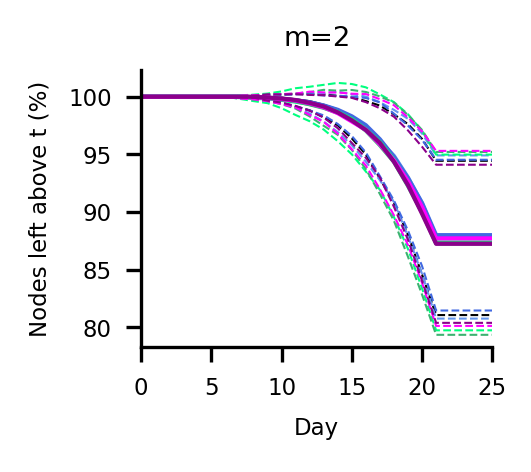
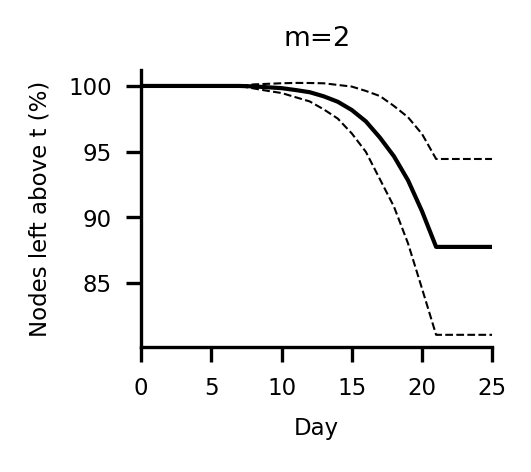
different plots for no reduction

diff --git a/analysis/New_York/vis.py b/analysis/New_York/vis.py
@@ -214,25 +214,37 @@ def plot_cases(all_results, age_groups, num_days, n, colors, labels, outdir):
 
 
         #Total
-        fig, ax = plt.subplots(figsize=(4.5/2.54, 4/2.54))
+        fig1, ax1 = plt.subplots(figsize=(4.5/2.54, 4/2.54))
+        fig2, ax2 = plt.subplots(figsize=(4.5/2.54, 4/2.54))
         ti=0
         for c in colors:
             m_cases_av = 100*np.cumsum(np.average(total[ti,:,:],axis=0))/n
             m_cases_std = 100*np.cumsum(np.std(total[ti,:,:],axis=0))/n
-            #plot
-            ax.plot(np.arange(total.shape[2]), m_cases_av, color = colors[c], linewidth=1)
-            ax.plot(np.arange(total.shape[2]),m_cases_av-m_cases_std,color = colors[c],linewidth=0.5, linestyle='dashed')
-            ax.plot(np.arange(total.shape[2]),m_cases_av+m_cases_std,color = colors[c],linewidth=0.5, linestyle='dashed')
+            if c != '1_1_1_1':
+                #plot
+                ax1.plot(np.arange(total.shape[2]), m_cases_av, color = colors[c], linewidth=1)
+                ax1.plot(np.arange(total.shape[2]),m_cases_av-m_cases_std,color = colors[c],linewidth=0.5, linestyle='dashed')
+                ax1.plot(np.arange(total.shape[2]),m_cases_av+m_cases_std,color = colors[c],linewidth=0.5, linestyle='dashed')
+            else:
+                ax2.plot(np.arange(total.shape[2]), m_cases_av, color = colors[c], linewidth=1)
+                ax2.plot(np.arange(total.shape[2]),m_cases_av-m_cases_std,color = colors[c],linewidth=0.5, linestyle='dashed')
+                ax2.plot(np.arange(total.shape[2]),m_cases_av+m_cases_std,color = colors[c],linewidth=0.5, linestyle='dashed')
             ti+=1
-        #plt.xlim([0,30])
-        ax.set_title('m='+str(m))
-        #ax.set_ylim(yscale[m])
-        ax.spines['top'].set_visible(False)
-        ax.spines['right'].set_visible(False)
-        ax.set_xlabel('Day')
-        ax.set_ylabel('% Cases')
-        fig.tight_layout()
-        fig.savefig(outdir+'cases_'+str(m)+'_total.png', format='png', dpi=300)
+        ax1.set_title('m='+str(m))
+        ax1.spines['top'].set_visible(False)
+        ax1.spines['right'].set_visible(False)
+        ax1.set_xlabel('Day')
+        ax1.set_ylabel('% Cases')
+        fig1.tight_layout()
+        fig1.savefig(outdir+'cases_'+str(m)+'_total.png', format='png', dpi=300)
+
+        ax2.set_title('m='+str(m))
+        ax2.spines['top'].set_visible(False)
+        ax2.spines['right'].set_visible(False)
+        ax2.set_xlabel('Day')
+        ax2.set_ylabel('% Cases')
+        fig2.tight_layout()
+        fig2.savefig(outdir+'cases_'+str(m)+'_total_100.png', format='png', dpi=300)
         plt.close()
 
     return None
@@ -282,7 +294,9 @@ def plot_degrees(all_results, age_groups, num_days, n, colors, labels, outdir):
     for m in ms:
         m_results = all_results[all_results['m']==m]
         #Total
-        fig, ax = plt.subplots(figsize=(4.5/2.54, 4/2.54))
+
+        fig1, ax1 = plt.subplots(figsize=(4.5/2.54, 4/2.54))
+        fig2, ax2 = plt.subplots(figsize=(4.5/2.54, 4/2.54))
         combo=1
         fetched_y = []
         for c in colors:
@@ -294,17 +308,31 @@ def plot_degrees(all_results, age_groups, num_days, n, colors, labels, outdir):
             #Average over seeds
             degrees_av = 100*np.average(degrees,axis=0)
             degrees_std = 100*np.std(degrees,axis=0)
-            ax.plot(np.arange(len(degrees_av)),degrees_av, color = colors[c], linewidth=1)
-            ax.plot(np.arange(len(degrees_av)),degrees_av-degrees_std, color = colors[c],linewidth=0.5, linestyle='dashed')
-            ax.plot(np.arange(len(degrees_av)),degrees_av+degrees_std, color = colors[c],linewidth=0.5, linestyle='dashed')
-        ax.set_xlim([0,25])
-        ax.set_title('m='+str(m))
-        ax.spines['top'].set_visible(False)
-        ax.spines['right'].set_visible(False)
-        ax.set_xlabel('Day')
-        ax.set_ylabel('Nodes left above t (%)')
-        fig.tight_layout()
-        fig.savefig(outdir+'deg_'+str(m)+'_total.png', format='png', dpi=300)
+            if c != '1_1_1_1':
+                ax1.plot(np.arange(len(degrees_av)),degrees_av, color = colors[c], linewidth=1)
+                ax1.plot(np.arange(len(degrees_av)),degrees_av-degrees_std, color = colors[c],linewidth=0.5, linestyle='dashed')
+                ax1.plot(np.arange(len(degrees_av)),degrees_av+degrees_std, color = colors[c],linewidth=0.5, linestyle='dashed')
+            else:
+                ax2.plot(np.arange(len(degrees_av)),degrees_av, color = colors[c], linewidth=1)
+                ax2.plot(np.arange(len(degrees_av)),degrees_av-degrees_std, color = colors[c],linewidth=0.5, linestyle='dashed')
+                ax2.plot(np.arange(len(degrees_av)),degrees_av+degrees_std, color = colors[c],linewidth=0.5, linestyle='dashed')
+        ax1.set_xlim([0,25])
+        ax1.set_title('m='+str(m))
+        ax1.spines['top'].set_visible(False)
+        ax1.spines['right'].set_visible(False)
+        ax1.set_xlabel('Day')
+        ax1.set_ylabel('Nodes left above t (%)')
+        fig1.tight_layout()
+        fig1.savefig(outdir+'deg_'+str(m)+'_total.png', format='png', dpi=300)
+
+        ax2.set_xlim([0,25])
+        ax2.set_title('m='+str(m))
+        ax2.spines['top'].set_visible(False)
+        ax2.spines['right'].set_visible(False)
+        ax2.set_xlabel('Day')
+        ax2.set_ylabel('Nodes left above t (%)')
+        fig2.tight_layout()
+        fig2.savefig(outdir+'deg_'+str(m)+'_total.png', format='png', dpi=300)
         plt.close()
 
     return None
